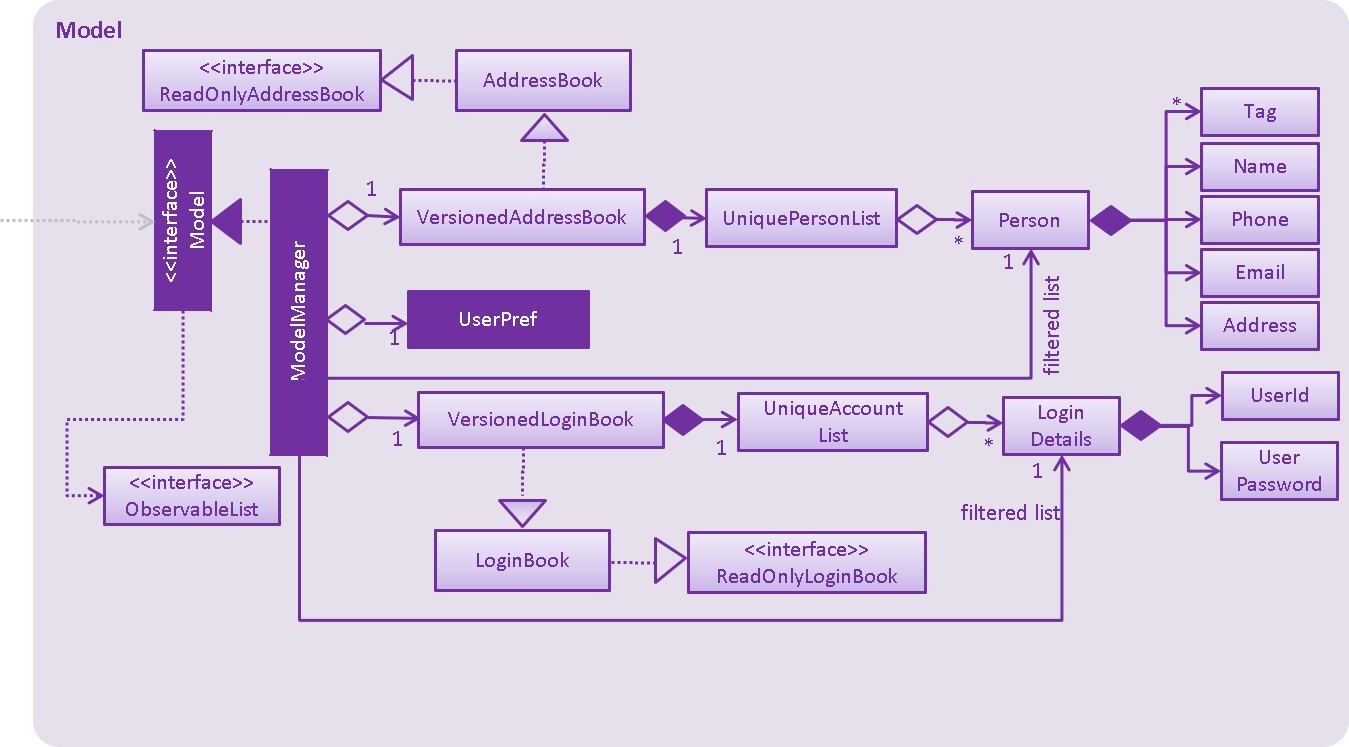
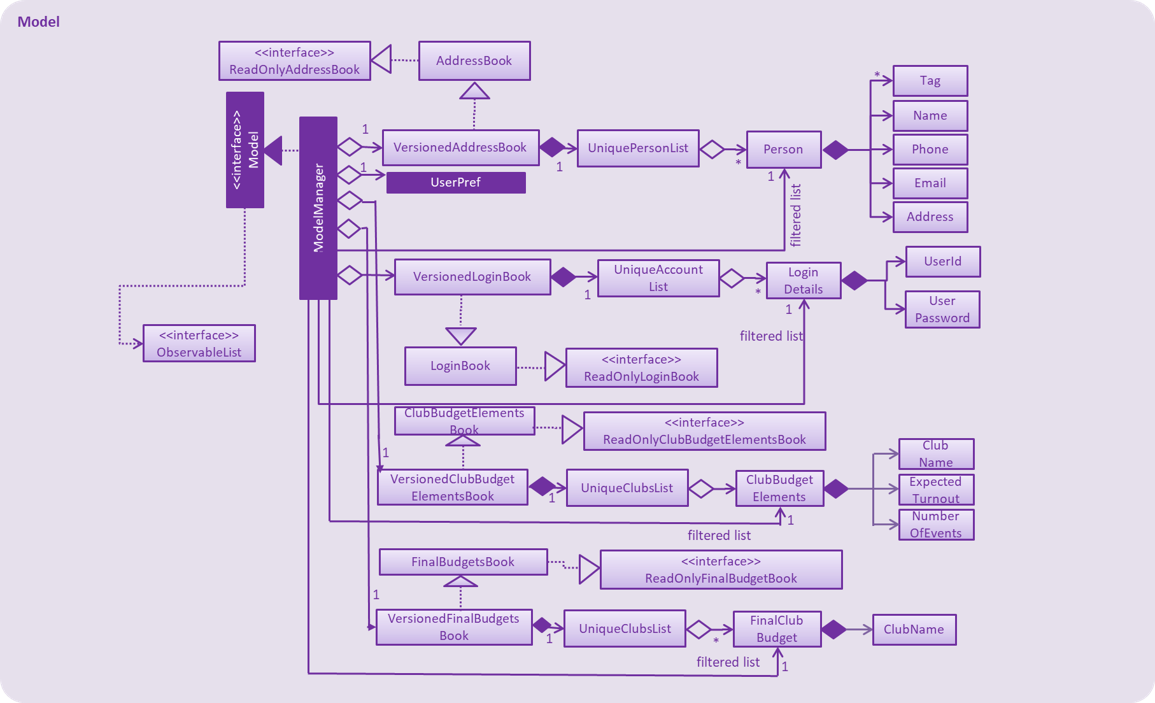
Rebuild pages at 38db2693b999c70970ea74eb6ebd194e009bc1d8

Changed region(s): [[0.0623, 0.0597, 0.9974, 0.9858], [0.0, 0.0, 0.0935, 1.0]]

diff --git a/team/sanjukta99.html b/team/sanjukta99.html
@@ -3,82 +3,81 @@
 <link rel="stylesheet" href="../stylesheets/coderay-asciidoctor.css"></head><body class="article"><div id="site-header"><nav class="navbar navbar-light bg-light"><div class="container"><img src="../images/NUSSU-ConnectPNGBanner.png"><a class="navbar-brand" href="../index.html">NUSSU Connect</a><ul class="navbar-nav"><li class="nav-item"><a class="nav-link" href="../UserGuide.html">User Guide</a></li><li class="nav-item"><a class="nav-link" href="../DeveloperGuide.html">Developer Guide</a></li><li class="nav-item"><a class="nav-link active" href="../AboutUs.html">About Us</a></li><li class="navitem"><a class="nav-link" href="https://github.com/CS2113-AY1819S1-F09-1/NUSSU-Connect"><span class="fa fa-github fa-lg" aria-hidden="true"></span>&nbsp;View on GitHub</a></li></ul></div></nav></div><div id="header"><h1>Sanjukta Saha - Project Portfolio</h1></div><div id="content"><div class="sect1">
 <h2 id="project-nussu-connect"><a class="link" href="#project-nussu-connect">PROJECT: NUSSU Connect</a></h2>
 <div class="sectionbody">
-
-</div>
-</div>
-<div class="sect1">
-<h2 id="introduction"><a class="link" href="#introduction">Introduction</a></h2>
-<div class="sectionbody">
+<div class="sect2">
+<h3 id="introduction"><a class="link" href="#introduction">Introduction</a></h3>
 <div class="imageblock" style="text-align: center">
 <div class="content">
 <img src="../images/longdivider.png" alt="longdivider" width="1000">
 </div>
 </div>
 <div class="paragraph">
-<p>This Portfolio is a documentation of the contributions that I have made for this project, titled NUSSU Connect.</p>
+<p>This Portfolio is a documentation of the contributions that I have made for this project, titled NUSSU-Connect.</p>
 </div>
 <div class="paragraph">
-<p>NUSSU Connect is a CLI application mainly targeted towards executive committee (exco) members of the NUS Student Union (NUSSU).
-Being representatives of the NUS student body, the exco members has a part in many projects and initiatives.
-This application therefore aims to help them perform some of these miscellaneous tasks that often comes from these projects much more easily.</p>
+<p>NUSSU-Connect is a resource management application targeting the members of the NUS Student Union (NUSSU). This application aims to simplify the tedious and time consuming management duties that an average club carries out. Hence the functions of our app are :
+<strong>Storing</strong> the details about every member of the NUSSU, facilitating a comprehensive <strong>search</strong> feature and <strong>financial logistics management</strong>, integrated in a platform that supports <strong>multi-level user access</strong>.</p>
 </div>
 <div class="paragraph">
-<p>To do so, the application comes with several features. This includes budgets/expenses management, human resource allocation and managing of important contacts.
-The original source code of this project is the <a href="https://github.com/se-edu/">AddressBook-Level4</a> project created by SE-EDU initiative, and hence,
+<p>NUSSU-Connect aims to be an <strong>Efficient</strong>, <strong>Intuitive</strong> and most of all <strong>Secure</strong> application.</p>
+</div>
+<div class="paragraph">
+<p>The original source code of this project is the <a href="https://github.com/se-edu/">AddressBook-Level4</a> project created by SE-EDU initiative, and hence,
 it also comes with some features from the AB4 project.</p>
 </div>
 </div>
-</div>
-<div class="sect1">
-<h2 id="summary-of-contributions"><a class="link" href="#summary-of-contributions">Summary of contributions</a></h2>
-<div class="sectionbody">
+<div class="sect2">
+<h3 id="summary-of-contributions"><a class="link" href="#summary-of-contributions">Summary of contributions</a></h3>
 <div class="imageblock" style="text-align: center">
 <div class="content">
 <img src="../images/longdivider.png" alt="longdivider" width="1000">
 </div>
 </div>
 <div class="paragraph">
-<p>My main contribution to this project is the Budgeting Feature. This intended purpose of this feature is to help the NUSSU treasurers allocate budgets fairly and equitably to all the clubs under the NUSSU based on the budget calculation data collected from the clubs.</p>
+<p>My main contribution to this project is the Budgeting Feature. The intended purpose of this feature is to help the NUSSU treasurers allocate budgets fairly and equitably to all the clubs under the NUSSU based on the budget calculation data collected from the clubs.</p>
+</div>
+<div class="paragraph">
+<p>The main aim of the budgeting feature is to boost the efficiency of one aspect of financial logistics management. Hence, the feature was designed keeping in mind <strong>ease of use</strong> for the users, and is an attempt to <strong>speed up</strong> one of the more tedious management duties performed by clubs.</p>
 </div>
 <div class="paragraph">
 <p>I will further elaborate on my contributions in the following sections.</p>
 </div>
-<div class="ulist">
-<ul>
-<li>
-<p><strong>Major enhancement</strong>: added <strong>the ability for club members to submit data for budget calculation</strong> and <strong>calculation of the final budgets to be allocated.</strong></p>
+<div class="sect3">
+<h4 id="major-enhancement-added-the-ability-for-club-members-to-submit-data-for-budget-calculation-and-calculation-of-the-final-budgets-to-be-allocated"><a class="link" href="#major-enhancement-added-the-ability-for-club-members-to-submit-data-for-budget-calculation-and-calculation-of-the-final-budgets-to-be-allocated">Major enhancement: added the ability for club members to submit data for budget calculation and calculation of the final budgets to be allocated</a></h4>
 <div class="ulist">
 <ul>
 <li>
 <p>What it does: Allows the members of clubs to submit the data - the number of events that the club is planning to hold and the expected turnout of each of these events - for the calculation of their club&#8217;s budget using the <code>budget</code> command. Once data from all of the clubs has been collected NUSSU treasurers can use the <code>calculatebudget</code> command to calculate and allocate a fair and equitable budget for each of the clubs based on the total available budget.</p>
 </li>
 <li>
-<p>Justification: Managing finances is one of the most important and time consuming functions of an organization. The budgeting feature implemented in NUSSU-Connect is a simple and less tedious alternative to the present budget allocation system in place in the NUSSU. It allows</p>
+<p>Justification: Managing finances is one of the most important and time consuming functions of an organization. The budgeting feature implemented in NUSSU-Connect is a simple and less tedious alternative to the present budget allocation system in place in the NUSSU.
+This feature helps its users save on precious time, which can now be spent on other tasks which require their attention.</p>
 </li>
 <li>
 <p>Highlights: The <code>calculatebudget</code> command was created almost entirely from scratch. The algorithm used to equitably calculate budgets is entirely my design.</p>
 </li>
 </ul>
 </div>
-</li>
-<li>
-<p><strong>Minor enhancement</strong>: added a feature that <strong>allows club members and NUSSU treasurers to view the budget allocated to a club</strong>.</p>
+</div>
+<div class="sect3">
+<h4 id="minor-enhancement-added-a-feature-that-allows-club-members-nussu-treasurers-and-club-presidents-to-view-the-budget-allocated-to-a-club"><a class="link" href="#minor-enhancement-added-a-feature-that-allows-club-members-nussu-treasurers-and-club-presidents-to-view-the-budget-allocated-to-a-club">Minor enhancement: added a feature that allows club members, NUSSU treasurers and club Presidents to view the budget allocated to a club</a></h4>
 <div class="ulist">
 <ul>
 <li>
 <p>What it does: Using the <code>viewbudget</code> command, club members and NUSSU treasurers can enter the name of a club and view its budget.</p>
 </li>
 <li>
-<p>Justification: This command is to be used by members of clubs to view the budget allocated to their club so that they can manage their club&#8217;s expenses accordingly.</p>
+<p>Justification: This command is to be used by members of clubs to view the budget allocated to their club so that they can manage their club&#8217;s expenses accordingly.
+The main aim of the budgeting feature is to boost the efficiency of one aspect of</p>
 </li>
 </ul>
 </div>
-</li>
-<li>
-<p><strong>Code contributed</strong>: [<a href="https://github.com">Functional code</a>] [<a href="https://github.com">Test code</a>] <em>{give links to collated code files}</em></p>
-</li>
-<li>
-<p><strong>Other contributions</strong>:</p>
+</div>
+<div class="sect3">
+<h4 id="code-contributed-a-href-https-nuscs2113-ay1819s1-github-io-dashboard-undefined-search-sanjukta99-sanjukta-saha-a"><a class="link" href="#code-contributed-a-href-https-nuscs2113-ay1819s1-github-io-dashboard-undefined-search-sanjukta99-sanjukta-saha-a">Code contributed: <a href="https://nuscs2113-ay1819s1.github.io/dashboard/#=undefined&amp;search=sanjukta99">Sanjukta Saha</a></a></h4>
+
+</div>
+<div class="sect3">
+<h4 id="other-contributions"><a class="link" href="#other-contributions">Other contributions:</a></h4>
 <div class="ulist">
 <ul>
 <li>
@@ -89,17 +88,34 @@ it also comes with some features from the AB4 project.</p>
 <p>Created a logo and banner for our project, NUSSU-Connect</p>
 </li>
 <li>
-<p>Edited the AboutUs Minor, UserGuide and DeveloperGuide documents. (Pull Requests <a href="https://github.com">#12</a>, <a href="https://github.com">#14</a>, <a href="https://github.com">#23</a>)</p>
+<p>Edited the README document with some of our product&#8217;s notable features.</p>
+</li>
+<li>
+<p>Made cosmetic tweaks to the AboutUs, UserGuide and DeveloperGuide documents. (Pull Requests <a href="https://github.com/CS2113-AY1819S1-F09-1/main/pull/56">56</a>, <a href="https://github.com/CS2113-AY1819S1-F09-1/main/pull/102">102</a>, <a href="https://github.com/CS2113-AY1819S1-F09-1/main/pull/103">103</a>,
+<a href="https://github.com/CS2113-AY1819S1-F09-1/main/pull/137">137</a>, etc.)</p>
+</li>
+<li>
+<p>Edited the class diagrams for Model and Storage to include the changes made with regards to the ClubBudgetElementsBook and FinalBudgetsBook.</p>
 </li>
 </ul>
 </div>
 </li>
 <li>
-<p>Others:</p>
+<p>Community:</p>
 <div class="ulist">
 <ul>
 <li>
 <p>Helped teammates edit variable and constant names in order to fit the naming conventions of the Java coding standard.</p>
+</li>
+<li>
+<p>Made non-trivial comments on team member&#8217;s pull request (Pull request <a href="https://github.com/CS2113-AY1819S1-F09-1/main/pull/122">122</a>)</p>
+</li>
+<li>
+<p>Identified functionality and documentation bugs in another team&#8217;s product (Issues <a href="https://github.com/CS2113-AY1819S1-T09-1/main/issues/122">122</a>, <a href="https://github.com/CS2113-AY1819S1-T09-1/main/issues/114">114</a>,
+<a href="https://github.com/CS2113-AY1819S1-T09-1/main/issues/111">111</a>,
+<a href="https://github.com/CS2113-AY1819S1-T09-1/main/issues/100">100</a>,
+<a href="https://github.com/CS2113-AY1819S1-T09-1/main/issues/107">107</a>,
+<a href="https://github.com/CS2113-AY1819S1-T09-1/main/issues/102">102</a>, and <a href="https://github.com/CS2113-AY1819S1-T09-1/main/issues/118">118</a>)</p>
 </li>
 <li>
 <p>Helped a classmate from another project group implement a way to list items according to categories.</p>
@@ -109,21 +125,14 @@ it also comes with some features from the AB4 project.</p>
 </li>
 </ul>
 </div>
-</li>
-</ul>
 </div>
 </div>
-</div>
-<div class="sect1">
-<h2 id="contributions-to-the-user-guide"><a class="link" href="#contributions-to-the-user-guide">Contributions to the User Guide</a></h2>
-<div class="sectionbody">
+<div class="sect2">
+<h3 id="contributions-to-the-user-guide"><a class="link" href="#contributions-to-the-user-guide">Contributions to the User Guide</a></h3>
 <div class="imageblock" style="text-align: center">
 <div class="content">
 <img src="../images/longdivider.png" alt="longdivider" width="1000">
 </div>
-</div>
-<div class="paragraph">
-<p>The following sections will detail the budget allocation process while providing guidance to the users on how to use the commands that I have implemented.</p>
 </div>
 <table class="tableblock frame-all grid-all spread">
 <colgroup>
@@ -131,10 +140,11 @@ it also comes with some features from the AB4 project.</p>
 </colgroup>
 <tbody>
 <tr>
-<td class="tableblock halign-left valign-top"><p class="tableblock"><em>Given below are sections I contributed to the User Guide. They showcase my ability to write documentation targeting end-users.</em></p></td>
+<td class="tableblock halign-left valign-top"><p class="tableblock"><em>The following section will detail the budget allocation process while providing guidance to the users on how to use the commands that I have implemented. This section is my contribution to the User Guide. They showcase my ability to write documentation targeting end-users.</em></p></td>
 </tr>
 </tbody>
 </table>
+</div>
 <div class="sect2">
 <h3 id="budgeting-feature-code-budget-code-code-calculatebudget-code-and-code-viewbudget-code"><a class="link" href="#budgeting-feature-code-budget-code-code-calculatebudget-code-and-code-viewbudget-code">Budgeting feature: <code>budget</code>, <code>calculatebudget</code> and <code>viewbudget</code></a></h3>
 <div class="paragraph">
@@ -248,11 +258,8 @@ Format: <code>viewbudget c/CLUB NAME</code></p>
 </div>
 </div>
 </div>
-</div>
-</div>
-<div class="sect1">
-<h2 id="contributions-to-the-developer-guide"><a class="link" href="#contributions-to-the-developer-guide">Contributions to the Developer Guide</a></h2>
-<div class="sectionbody">
+<div class="sect2">
+<h3 id="contributions-to-the-developer-guide"><a class="link" href="#contributions-to-the-developer-guide">Contributions to the Developer Guide</a></h3>
 <div class="imageblock" style="text-align: center">
 <div class="content">
 <img src="../images/longdivider.png" alt="longdivider" width="1000">
@@ -268,6 +275,7 @@ Format: <code>viewbudget c/CLUB NAME</code></p>
 </tr>
 </tbody>
 </table>
+</div>
 <div class="sect2">
 <h3 id="budgeting-feature"><a class="link" href="#budgeting-feature">Budgeting Feature</a></h3>
 <div class="sect3">
@@ -486,4 +494,4 @@ user entered a unique club name.
 </div>
 </div>
 </div>
-</div></div><div id="footer"><div class="container"><div id="footer-text">Last updated 2018-11-11 16:52:58 UTC</div></div></div></body></html>
+</div></div><div id="footer"><div class="container"><div id="footer-text">Last updated 2018-11-11 18:57:41 UTC</div></div></div></body></html>

diff --git a/team/johndoe.html b/team/johndoe.html
@@ -446,4 +446,4 @@ If the <code>currentStatePointer</code> is at index <code>addressBookStateList.s
 <p><em>{Optionally, you may include other projects in your portfolio.}</em></p>
 </div>
 </div>
-</div></div><div id="footer"><div class="container"><div id="footer-text">Last updated 2018-11-11 16:52:58 UTC</div></div></div></body></html>
+</div></div><div id="footer"><div class="container"><div id="footer-text">Last updated 2018-11-11 18:57:41 UTC</div></div></div></body></html>

diff --git a/index.html b/index.html
@@ -117,4 +117,4 @@ solve, or at least minimize, any manpower and logistics issues that can happen d
 <div class="sectionbody">
 
 </div>
-</div></div><div id="footer"><div class="container"><div id="footer-text">Last updated 2018-11-11 16:52:58 UTC</div></div></div></body></html>
+</div></div><div id="footer"><div class="container"><div id="footer-text">Last updated 2018-11-11 18:57:41 UTC</div></div></div></body></html>

diff --git a/ContactUs.html b/ContactUs.html
@@ -12,4 +12,4 @@
 <p><strong>Email us</strong> : You can also reach us at <code>damith [at] comp.nus.edu.sg</code></p>
 </li>
 </ul>
-</div></div><div id="footer"><div class="container"><div id="footer-text">Last updated 2018-11-11 16:52:58 UTC</div></div></div></body></html>
+</div></div><div id="footer"><div class="container"><div id="footer-text">Last updated 2018-11-11 18:57:41 UTC</div></div></div></body></html>

diff --git a/team/chocological.html b/team/chocological.html
@@ -621,4 +621,4 @@ throw ParseException, consider the login attempt as unsuccessful and initiate a 
 </div>
 </div>
 </div>
-</div></div><div id="footer"><div class="container"><div id="footer-text">Last updated 2018-11-11 16:52:58 UTC</div></div></div></body></html>
+</div></div><div id="footer"><div class="container"><div id="footer-text">Last updated 2018-11-11 18:57:41 UTC</div></div></div></body></html>

diff --git a/UsingGradle.html b/UsingGradle.html
@@ -255,4 +255,4 @@ See <code>build.gradle</code> &#8594; <code>allprojects</code> &#8594; <code>dep
 </ul>
 </div>
 </div>
-</div></div><div id="footer"><div class="container"><div id="footer-text">Last updated 2018-11-11 16:52:58 UTC</div></div></div></body></html>
+</div></div><div id="footer"><div class="container"><div id="footer-text">Last updated 2018-11-11 18:57:41 UTC</div></div></div></body></html>

diff --git a/UsingNetlify.html b/UsingNetlify.html
@@ -123,4 +123,4 @@ The publish directory is the directory in which the built HTML documentation res
 </ol>
 </div>
 </div>
-</div></div><div id="footer"><div class="container"><div id="footer-text">Last updated 2018-11-11 16:52:58 UTC</div></div></div></body></html>
+</div></div><div id="footer"><div class="container"><div id="footer-text">Last updated 2018-11-11 18:57:41 UTC</div></div></div></body></html>

diff --git a/UsingCoveralls.html b/UsingCoveralls.html
@@ -96,4 +96,4 @@ If you have not set up Travis CI, see <a href="UsingTravis.html">UsingTravis.ado
 </ol>
 </div>
 </div>
-</div></div><div id="footer"><div class="container"><div id="footer-text">Last updated 2018-11-11 16:52:58 UTC</div></div></div></body></html>
+</div></div><div id="footer"><div class="container"><div id="footer-text">Last updated 2018-11-11 18:57:41 UTC</div></div></div></body></html>

diff --git a/UsingTravis.html b/UsingTravis.html
@@ -280,4 +280,4 @@ Suggested change: Remove the codacy badge from <code>README</code>.</p>
 </div>
 </div>
 </div>
-</div></div><div id="footer"><div class="container"><div id="footer-text">Last updated 2018-11-11 16:52:58 UTC</div></div></div></body></html>
+</div></div><div id="footer"><div class="container"><div id="footer-text">Last updated 2018-11-11 18:57:41 UTC</div></div></div></body></html>

diff --git a/team/derpyplops.html b/team/derpyplops.html
@@ -199,4 +199,4 @@ information during addition of personal information.</p>
 </div>
 </div>
 </div>
-</div></div><div id="footer"><div class="container"><div id="footer-text">Last updated 2018-11-11 16:52:58 UTC</div></div></div></body></html>
+</div></div><div id="footer"><div class="container"><div id="footer-text">Last updated 2018-11-11 18:57:41 UTC</div></div></div></body></html>

diff --git a/HelpWindow.html b/HelpWindow.html
@@ -1070,4 +1070,4 @@ e.g. <code>viewbudget c/Computing Club</code></p>
 </ul>
 </div>
 </div>
-</div></div><div id="footer"><div class="container"><div id="footer-text">Last updated 2018-11-11 16:52:58 UTC</div></div></div></body></html>
+</div></div><div id="footer"><div class="container"><div id="footer-text">Last updated 2018-11-11 18:57:41 UTC</div></div></div></body></html>

diff --git a/UserGuide.html b/UserGuide.html
@@ -1070,4 +1070,4 @@ e.g. <code>viewbudget c/Computing Club</code></p>
 </ul>
 </div>
 </div>
-</div></div><div id="footer"><div class="container"><div id="footer-text">Last updated 2018-11-11 16:52:58 UTC</div></div></div></body></html>
+</div></div><div id="footer"><div class="container"><div id="footer-text">Last updated 2018-11-11 18:57:41 UTC</div></div></div></body></html>
